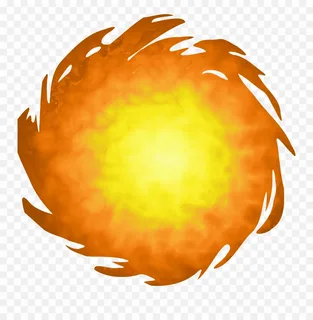
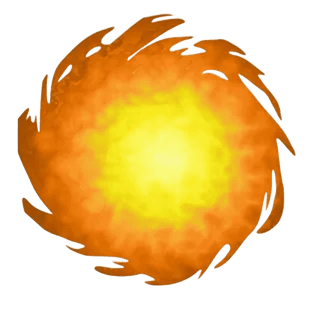
улучшение 3

diff --git a/brawl_clicker-master/static/style.css b/brawl_clicker-master/static/style.css
@@ -2505,8 +2505,8 @@ html, body {
 #cannon2 {
     position: absolute;
     bottom: 80px;
-    width: 90px;
-    height: 110px;
+    width: 100px;
+    height: 120px;
     background-image: url("images/cannon2.png");
     background-size: contain;
     background-repeat: no-repeat;
